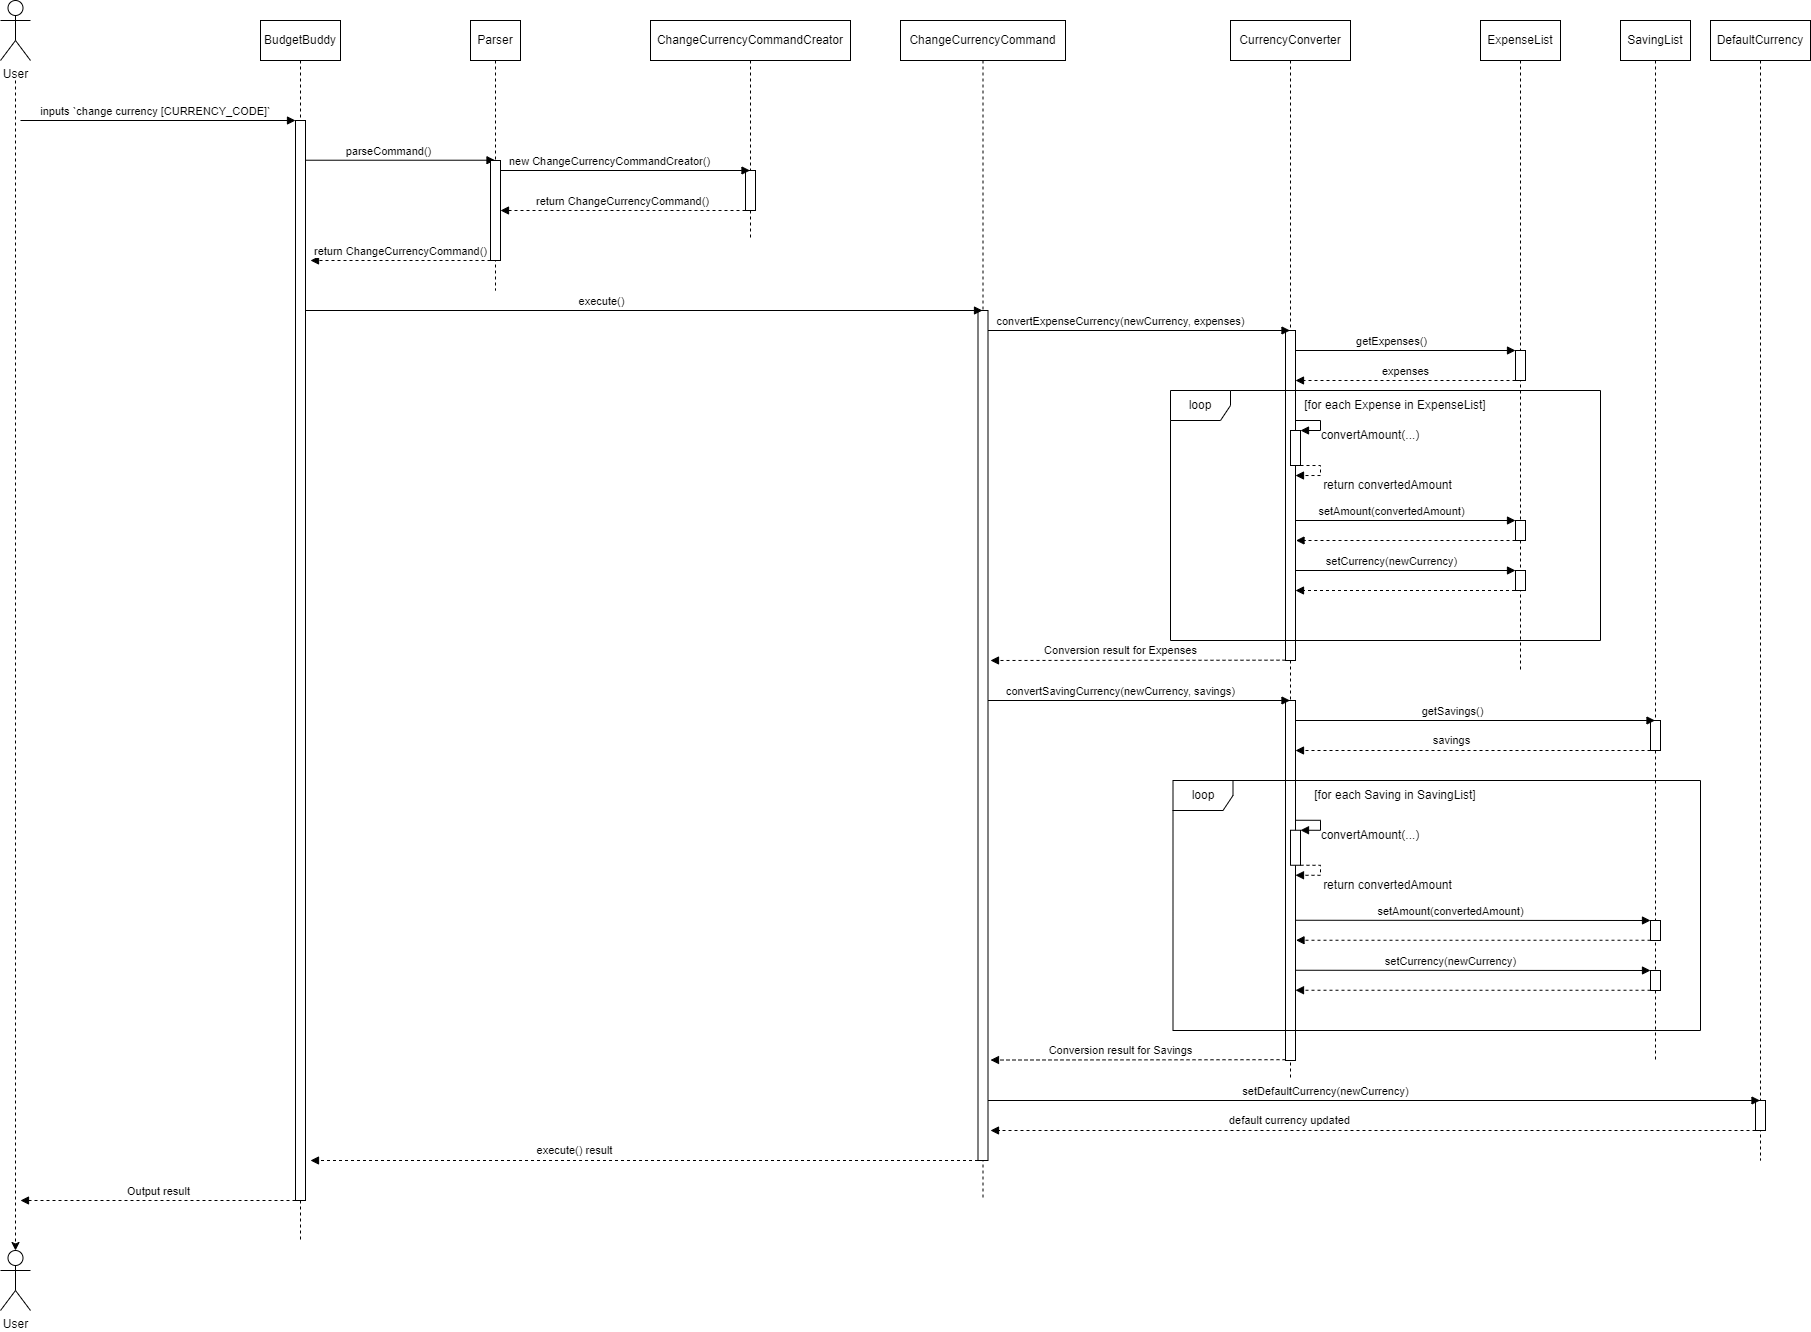
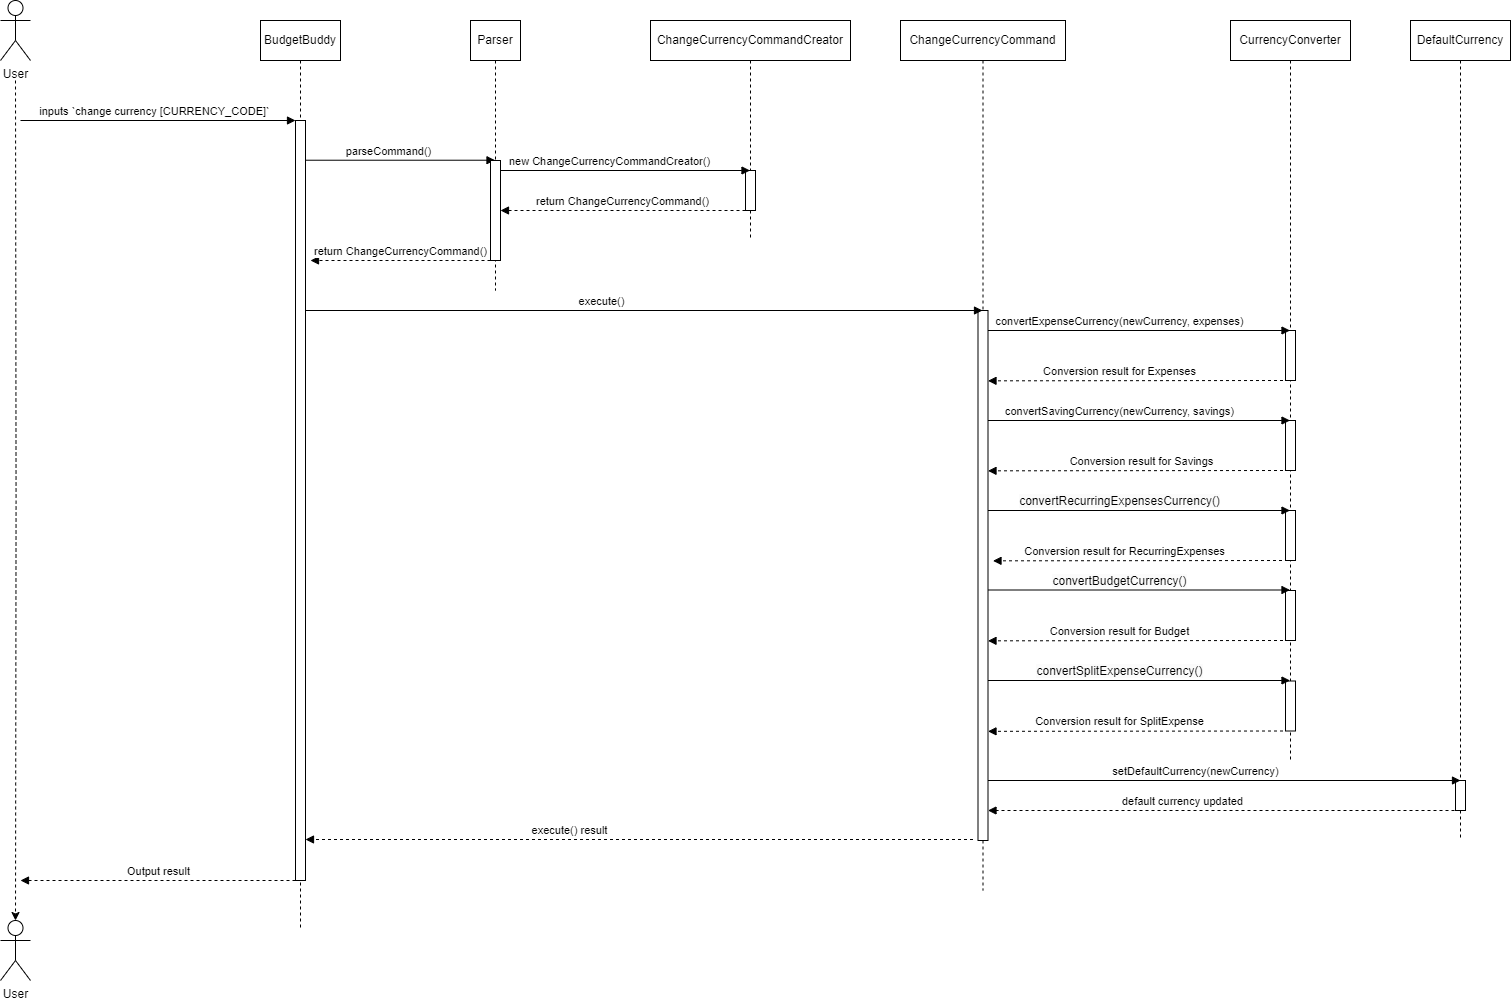
Update sequence diagrams

diff --git a/docs/DeveloperGuide.md b/docs/DeveloperGuide.md
@@ -278,12 +278,6 @@ The exchange rates are initialized with default values for common currencies suc
 USD, EUR, JPY, KRW, MYR, CNY, and HKD.
 
 The class includes several methods to handle currency conversion tasks, with its relevance explained in the **Implementation** section. <br>
-<!-- @@author Dheekshitha2-->
-* `convertBudgetCurrency(Currency newCurrency, ExpenseList expenseList)`:
-This method is responsible for converting the currency of all budgets within `ExpenseList` to a specified new currency (`newCurrency`). It 
-accepts the new `Currency` object representing the target currency and the `ExpenseList` containing the budgets, and updates
-the budget amounts and currencies accordingly.
-
 
 These methods facilitate currency conversion tasks by handling the conversion logic, validating input parameters, 
 and logging relevant messages. They provide essential functionality for managing expenses and savings in different 
@@ -952,6 +946,12 @@ The Currency Converter feature also includes a mechanism for managing a default 
   It iterates through the savings in the list, converts each saving amount to the new currency using the `convertAmount`
   method, and updates the saving amounts and currencies accordingly.
 
+<!-- @@author Dheekshitha2-->
+* `convertBudgetCurrency(Currency newCurrency, ExpenseList expenseList)`:
+  This method is responsible for converting the currency of all budgets within `ExpenseList` to a specified new currency (`newCurrency`). It
+  accepts the new `Currency` object representing the target currency and the `ExpenseList` containing the budgets, and updates
+  the budget amounts and currencies accordingly.
+
 The `DefaultCurrency` class is designed to maintain and update the application-wide default currency setting. It provides static methods to get and set the default currency:
 
 | Method               | Return Type | Relevance                                                    |
@@ -993,7 +993,7 @@ Sequence Diagram for convertRecurringExpensesCurrency():
 
 <!-- @@author yyangdaa-->
 Sequence Diagram for convertSplittedExpenseCurrency():
-![]()
+![Sequence diagram for convertSplittedExpenseCurrency](diagrams/sequenceDiagram_CurrencyConverter_SplitExpense.png)
 
 <!-- @@author dheekshitha2-->
 Sequence Diagram for convertBudgetCurrency():
